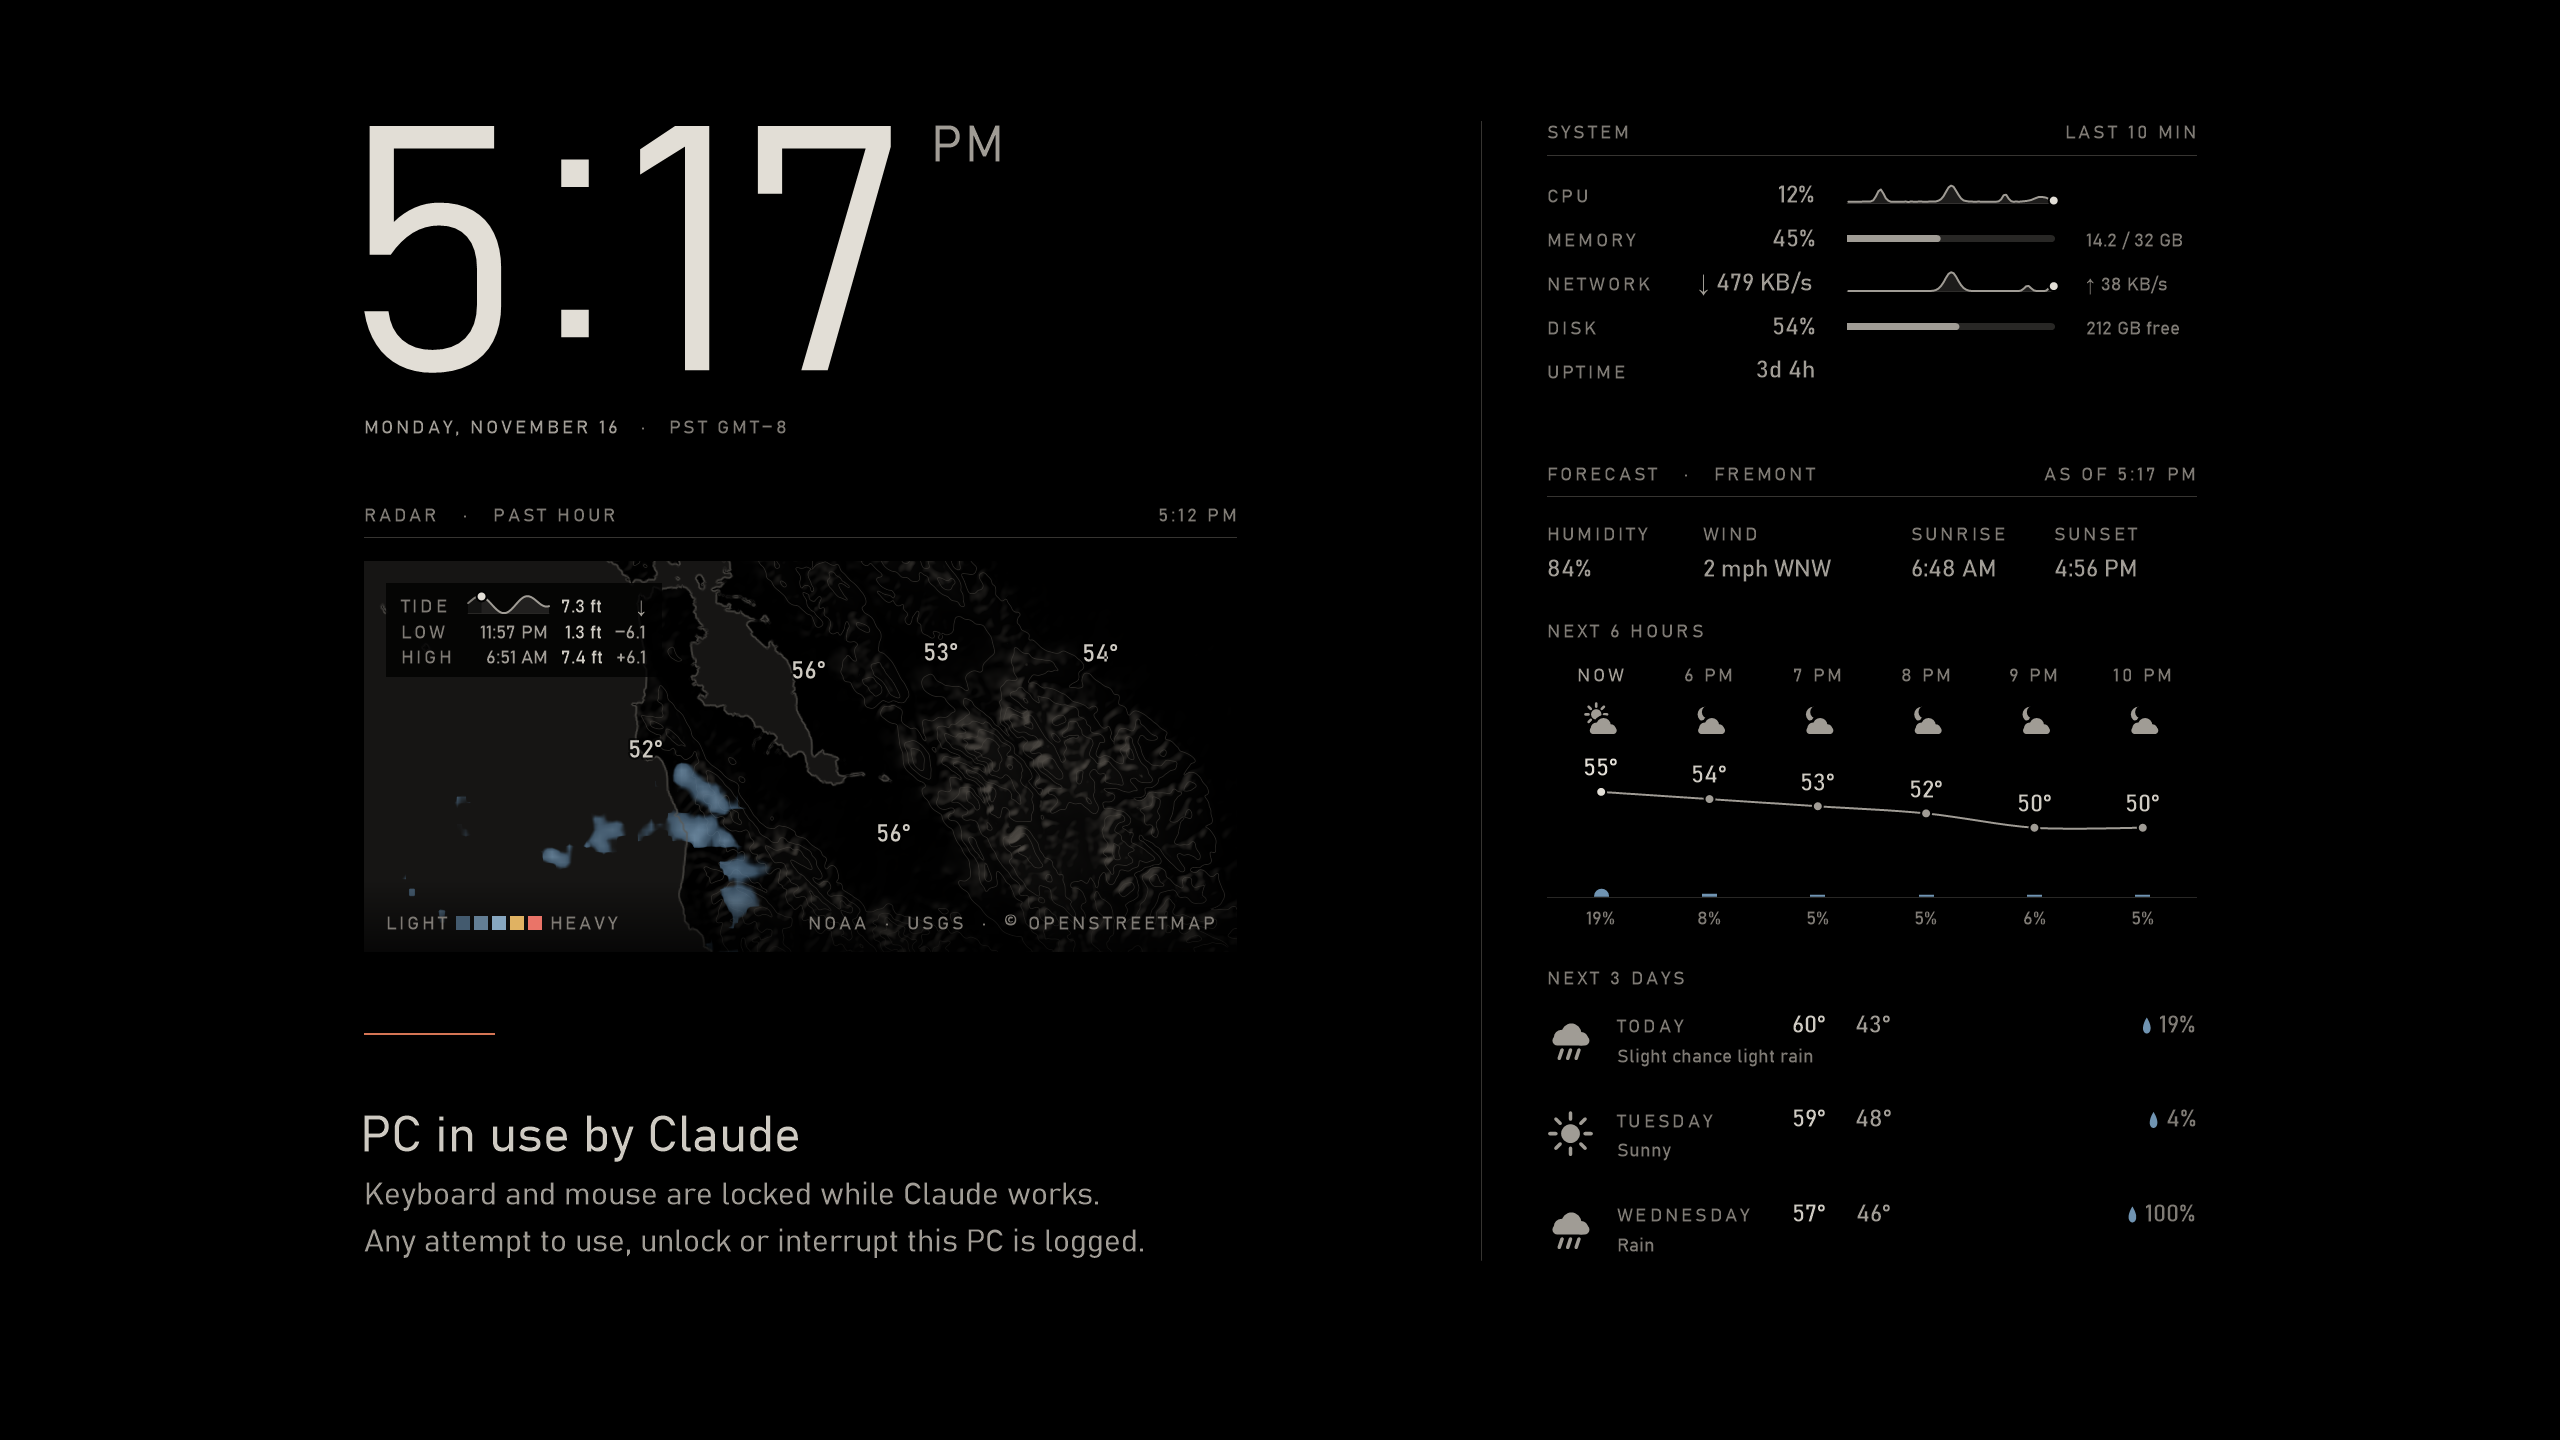
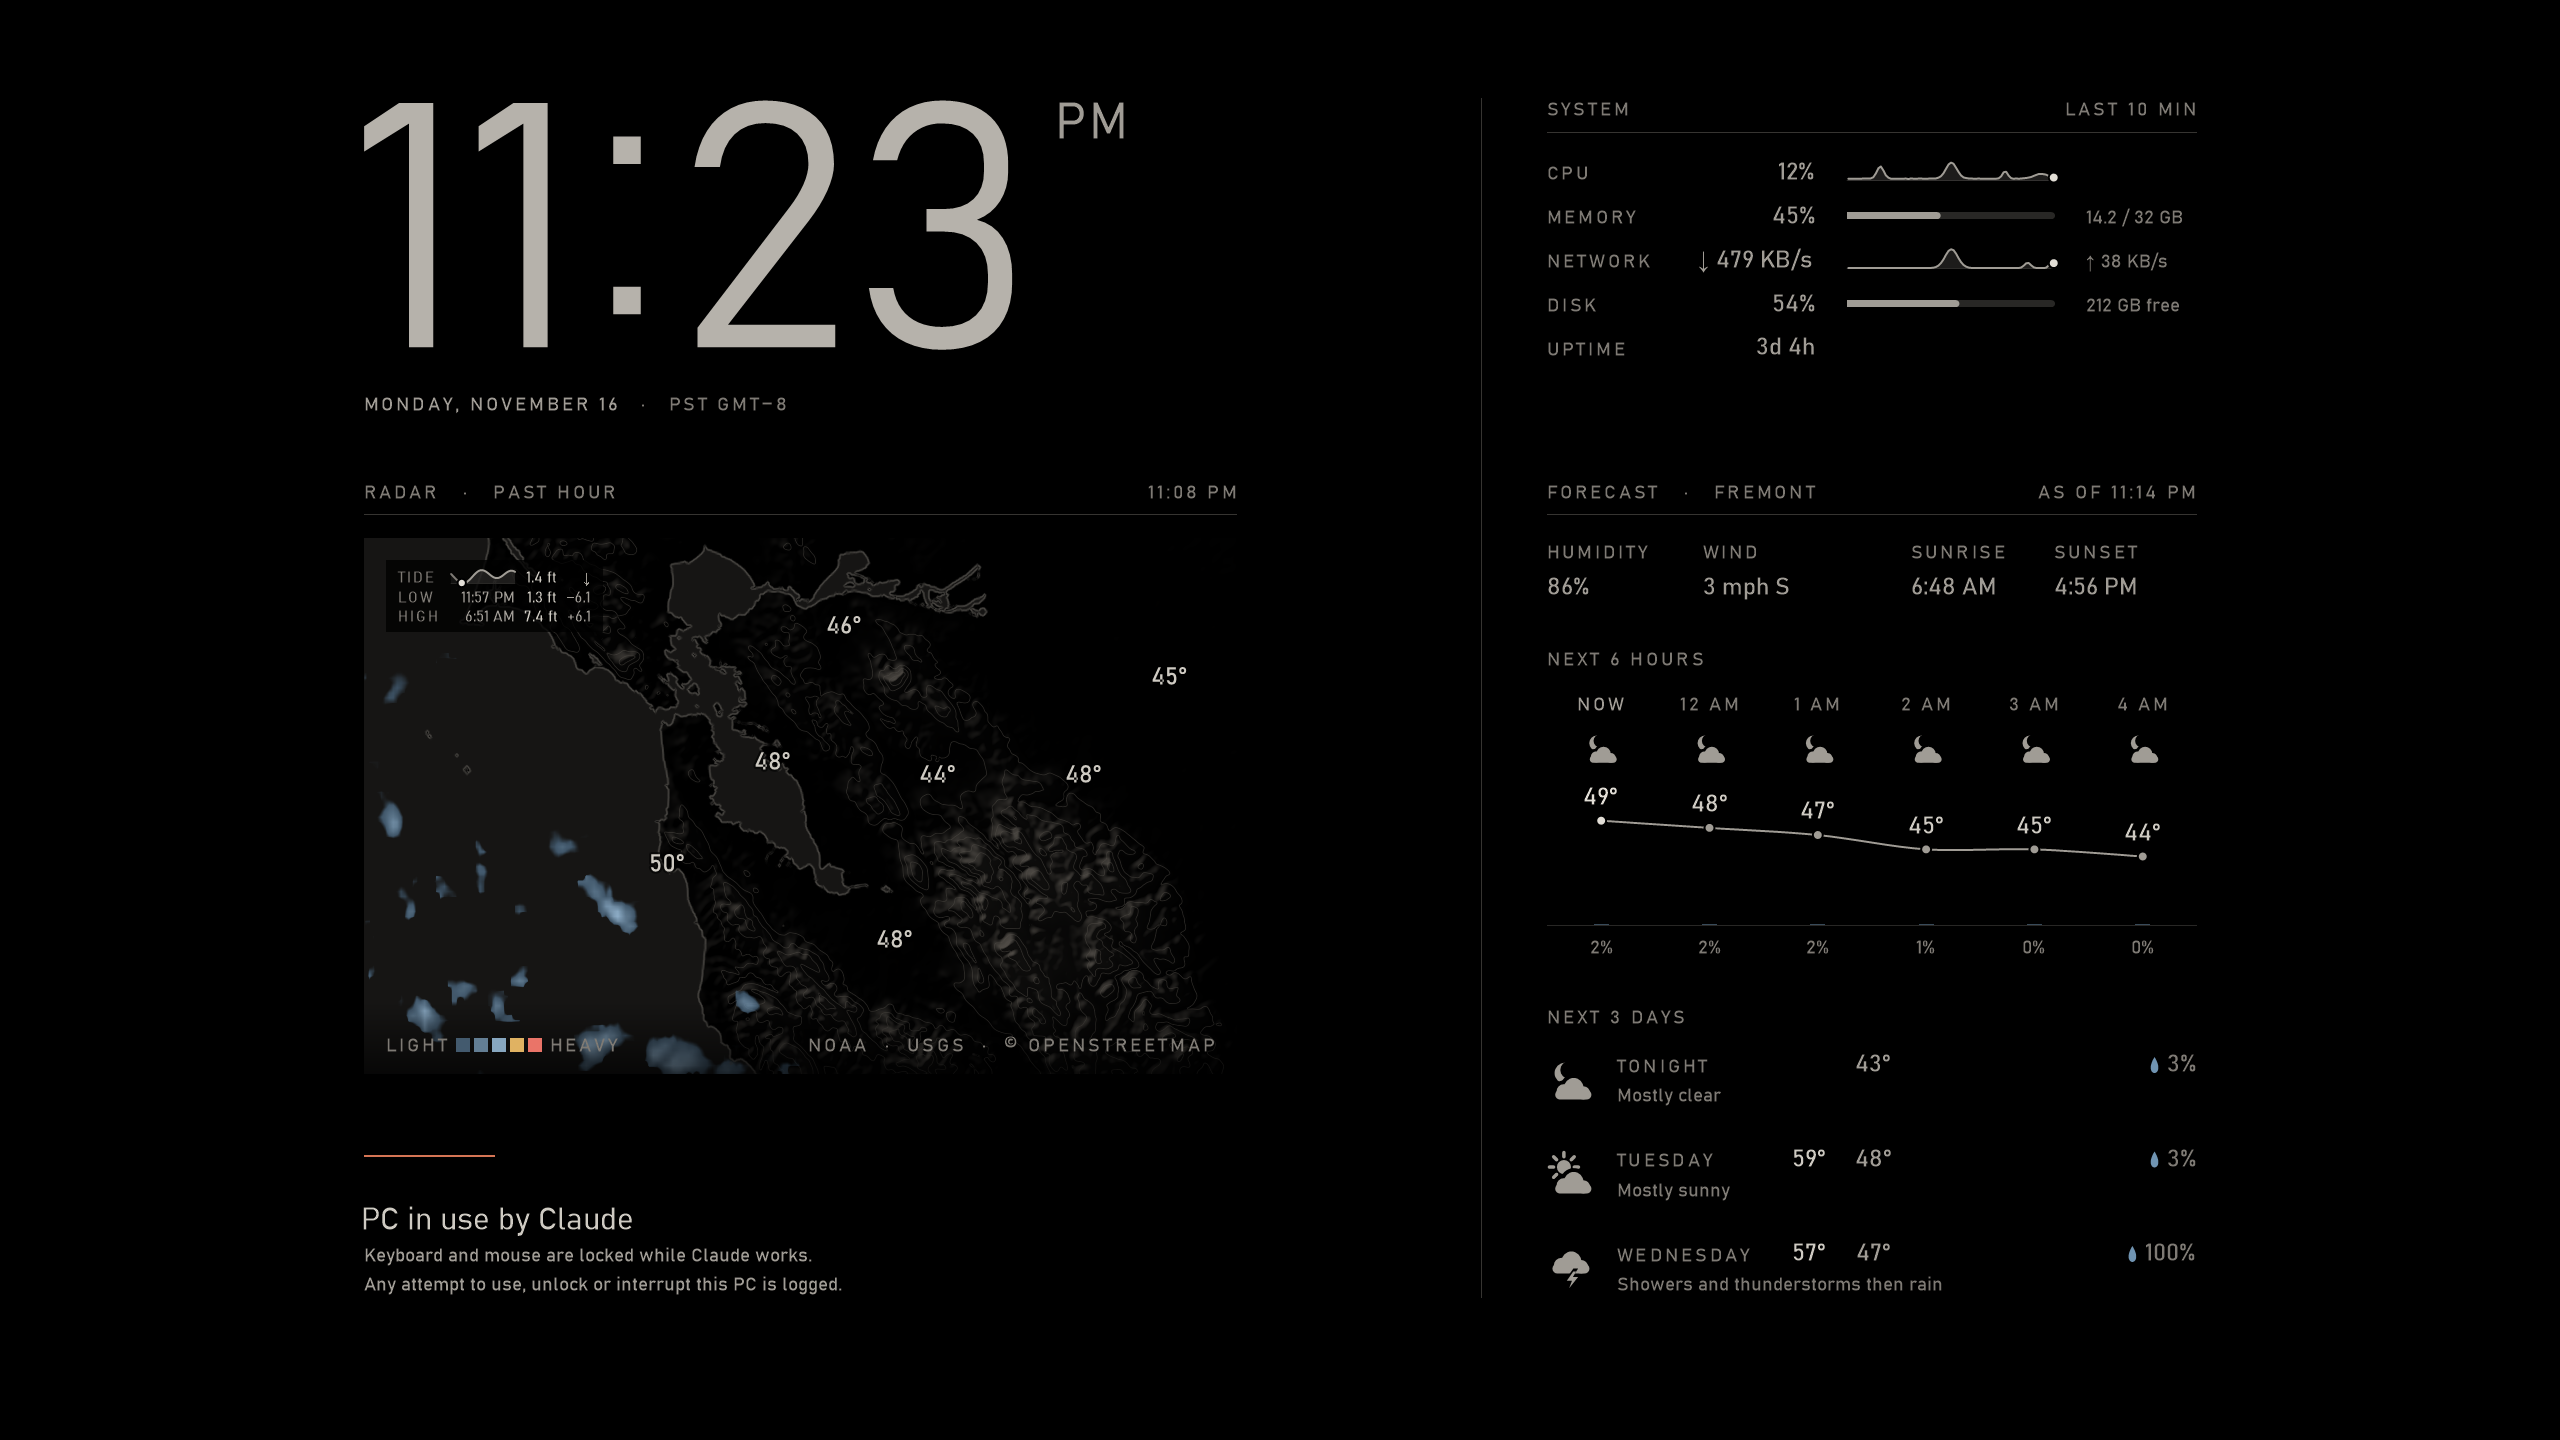
Curtain card: the taller map and the grayer clock
The card's screenshot is rendered again from the curtain's new layout:
the map is 37% taller, 120 km top to bottom instead of 80, out to San
Pablo Bay and Suisun Bay, with the message and the tide table set
smaller, and the clock a step grayer. Home is still left off the map.
The alt text now says the showers are off the coast.

diff --git a/index.html b/index.html
@@ -140,7 +140,7 @@
             <p class="artifact-tag st-label">Open source tool</p>
             <h3 class="st-h3">Privacy Curtain</h3>
             <figure class="artifact-shot">
-              <a class="shot" href="assets/privacy-curtain.png" data-size="2560x1440" data-caption="Privacy Curtain: the screen at 2560 by 1440, with the Bay Area's weather." data-alt="The Privacy Curtain on a 2560 by 1440 screen: the time and date, a radar map of the San Francisco Bay Area with its hills shaded and contoured, a few light showers along the coast, temperatures around the Bay and a tide table in the corner, the message &ldquo;PC in use by Claude&rdquo;, ten-minute CPU and network graphs, memory and disk bars, and the forecast with humidity, wind, sunrise and sunset, the next six hours and the next three days.">
+              <a class="shot" href="assets/privacy-curtain.png" data-size="2560x1440" data-caption="Privacy Curtain: the screen at 2560 by 1440, with the Bay Area's weather." data-alt="The Privacy Curtain on a 2560 by 1440 screen: the time and date, a radar map of the San Francisco Bay Area with its hills shaded and contoured, a few light showers off the coast, temperatures around the Bay and a tide table in the corner, the message &ldquo;PC in use by Claude&rdquo;, ten-minute CPU and network graphs, memory and disk bars, and the forecast with humidity, wind, sunrise and sunset, the next six hours and the next three days.">
                 <img src="assets/privacy-curtain-thumb.png" width="832" height="468" loading="lazy" decoding="async" alt="The Privacy Curtain on a widescreen monitor: a large clock, a radar map of the San Francisco Bay Area over shaded hills, with temperatures and a tide table, and the message &ldquo;PC in use by Claude&rdquo; on the left; live system stats and the forecast on the right."><span class="visually-hidden"> Opens a larger view.</span>
               </a>
               <figcaption class="st-small">Rendered by the curtain's own preview mode, since the real one hides from screenshots.</figcaption>
